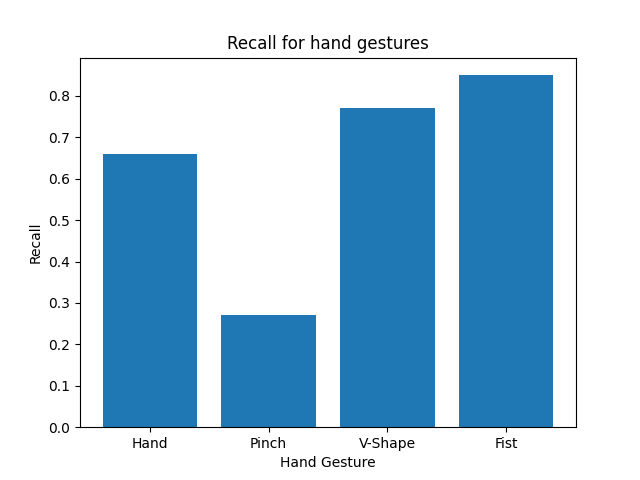
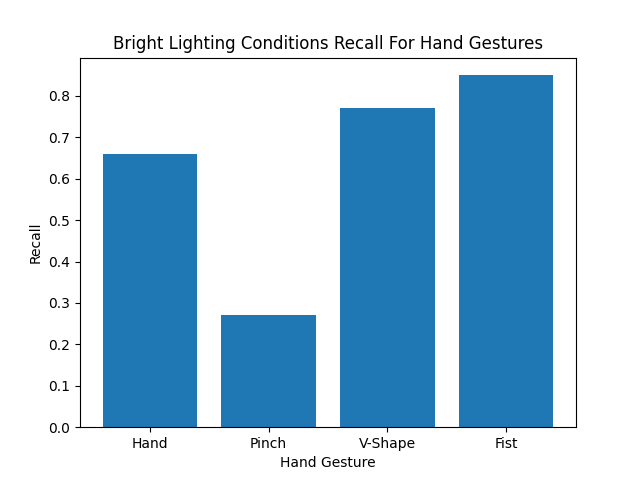
update figs

Changed region(s): [[0.1562, 0.0625, 0.8438, 0.125]]

diff --git a/src/diagramme.py b/src/diagramme.py
@@ -7,10 +7,51 @@ def _bright_lighting_conditions_plot():
     values = [0.66, 0.27, 0.77, 0.85]
 
     # Erstelle ein Balkendiagramm
-    plt.bar(labels, values)#, color=['blue', 'orange', 'green', 'red'])
+    plt.bar(labels, values)
 
     # Füge Titel und Achsenbeschriftungen hinzu
-    plt.title('Recall for hand gestures')
+    plt.title('Bright Lighting Conditions Recall For Hand Gestures')
+    plt.xlabel('Hand Gesture')
+    plt.ylabel('Recall')
+
+    # Zeige das Diagramm an
+    plt.show()
+
+def _middle_lighting_conditions_plot():
+    'Middle Lighting Conditions'
+    labels = ['Hand', 'Pinch', 'V-Shape', 'Fist']
+    values = [0.94,0.89,0.54,0.95]
+
+    # Hand recall: 0.94
+    # Pinch recall: 0.89
+    # V recall: 0.54
+    # Fist recall: 0.95
+    # Erstelle ein Balkendiagramm
+    plt.bar(labels, values)
+
+    # Füge Titel und Achsenbeschriftungen hinzu
+    plt.title('Middle Lighting Conditions Recall For Hand Gestures')
+    plt.xlabel('Hand Gesture')
+    plt.ylabel('Recall')
+
+    # Zeige das Diagramm an
+    plt.show()
+
+def _low_lighting_conditions_plot():
+    'Low Lighting Conditions'
+    labels = ['Hand', 'Pinch', 'V-Shape', 'Fist']
+    values = [0.99,0.92,0.66,0.87]
+
+    # Hand recall: 0.99
+    # Pinch recall: 0.92
+    # V recall: 0.66
+    # Fist recall: 0.87
+
+    # Erstelle ein Balkendiagramm
+    plt.bar(labels, values)
+
+    # Füge Titel und Achsenbeschriftungen hinzu
+    plt.title('Low Lighting Conditions Recall For Hand Gestures')
     plt.xlabel('Hand Gesture')
     plt.ylabel('Recall')
 
@@ -18,3 +59,5 @@ def _bright_lighting_conditions_plot():
     plt.show()
 
 _bright_lighting_conditions_plot()
+_middle_lighting_conditions_plot()
+_low_lighting_conditions_plot()
